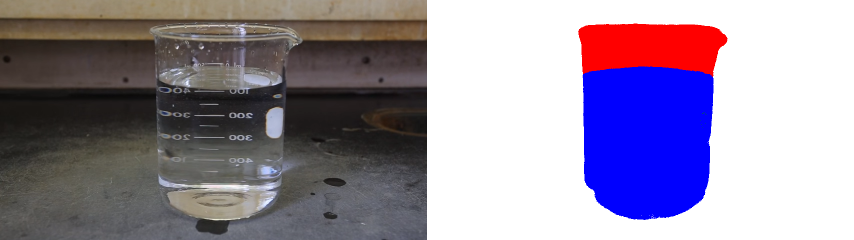
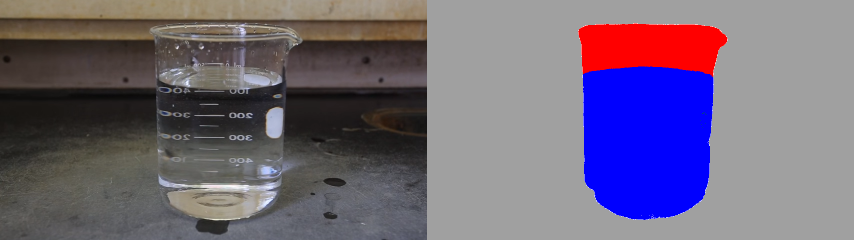
l

diff --git a/README.md b/README.md
@@ -8,7 +8,7 @@ The input for the net is RGB image (Figure 1 right).
 The net produces pixel-wise annotation as a matrix in the size of the image with the value of each pixel corresponding to its class (Figure 1 left).
 
 ![](/Figure1.png)
-Figure 1) Semantic segmentation of image of liquid in glass vessel with FCN. Red=Glass, Blue=Liquid, White=Background
+Figure 1) Semantic segmentation of image of liquid in glass vessel with FCN. Red=Empty Vessel, Blue=Liquid Filled Vessel, Grey=Background
 
 ## Requirements
 This network was run with Python 3.6  [Anaconda](https://www.anaconda.com/download/) package and [Pytorch 0.3](https://pytorch.org/). The training was done using Nvidia GTX 1080, on Linux Ubuntu 16.04.
